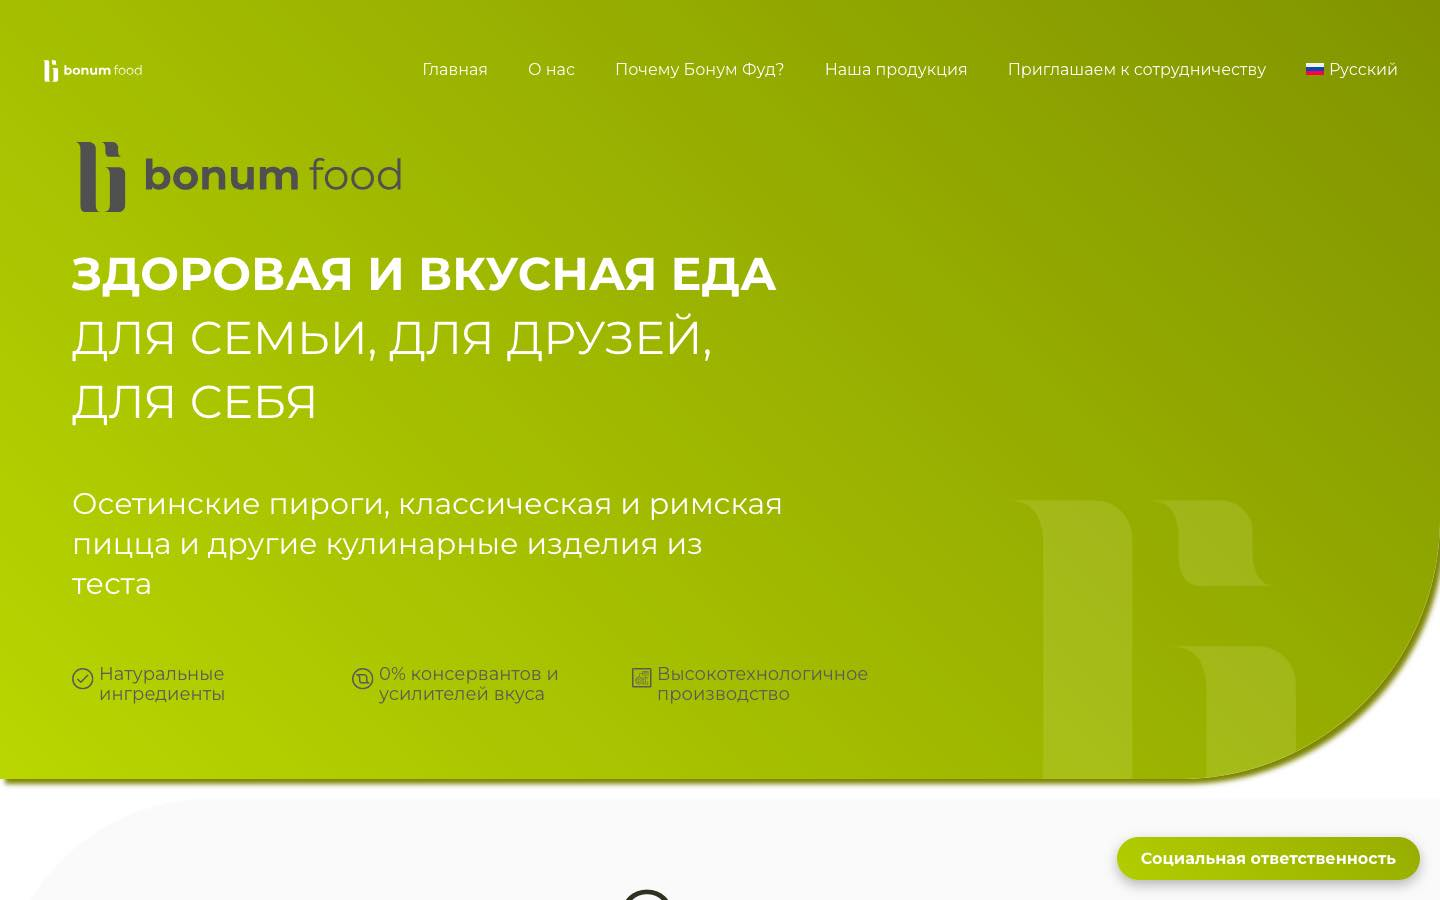
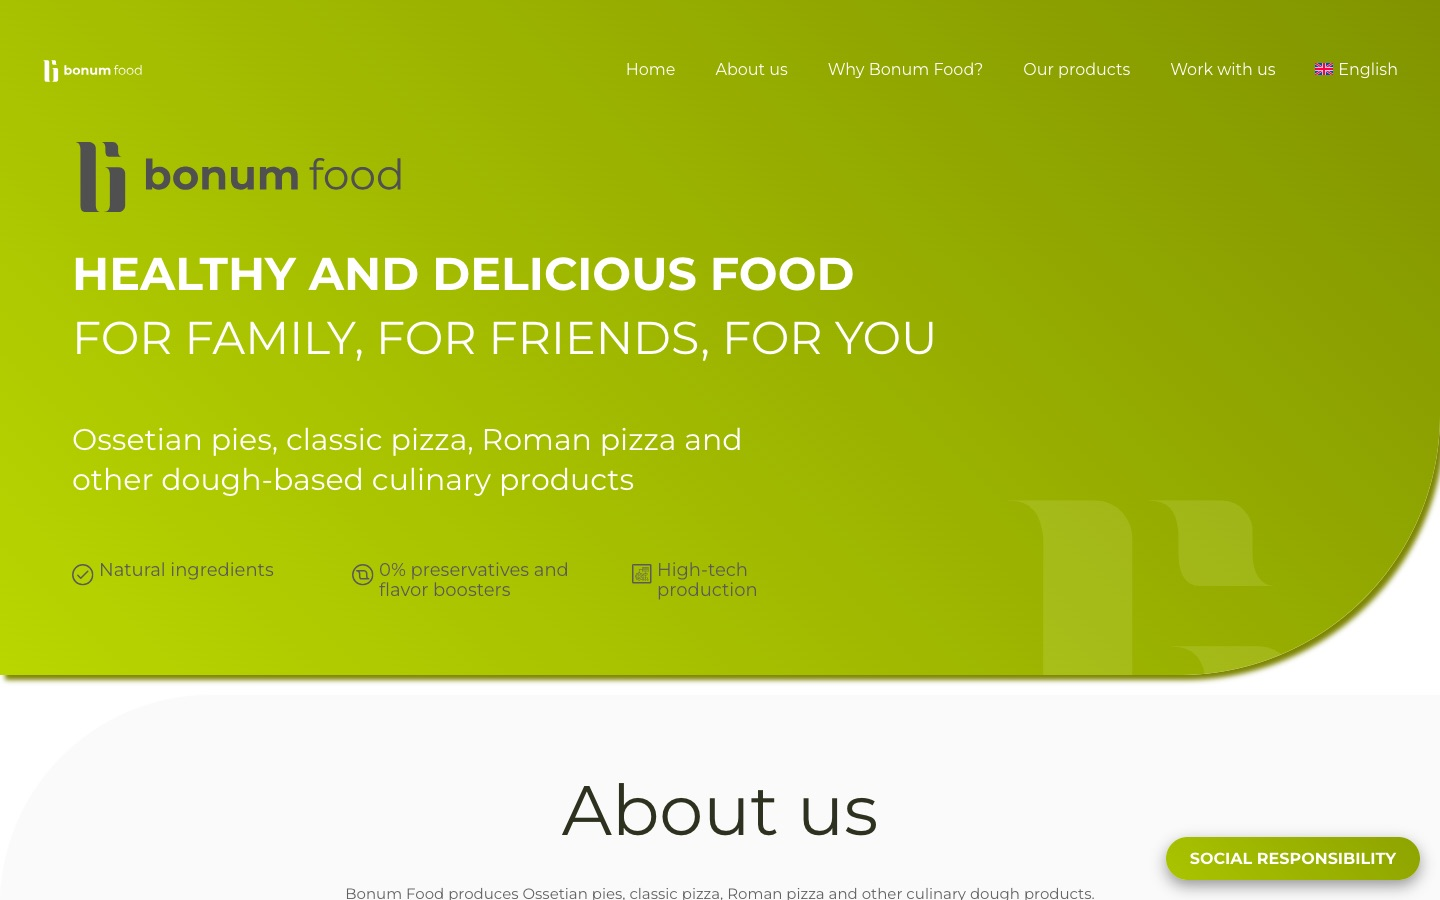
download_09_10_2025_9

diff --git a/index.html b/index.html
@@ -139,7 +139,7 @@
 							        </div>
 
 							        <div class="swiper-slide">
-							          <a href="https://pandadevelopmentcompany.github.io/bonumfood_static/index.html" target="_blank">
+							          <a href="https://pandadevelopmentcompany.github.io/bonumfood_static/en.html" target="_blank">
 							            <img src="images/work_examples_bonum.jpg" alt="Bonumfood" loading="lazy" />
 							            <h4>Bonumfood.ru — Healthy and Delicious Food for the Whole Family</h4>
 							          </a>
